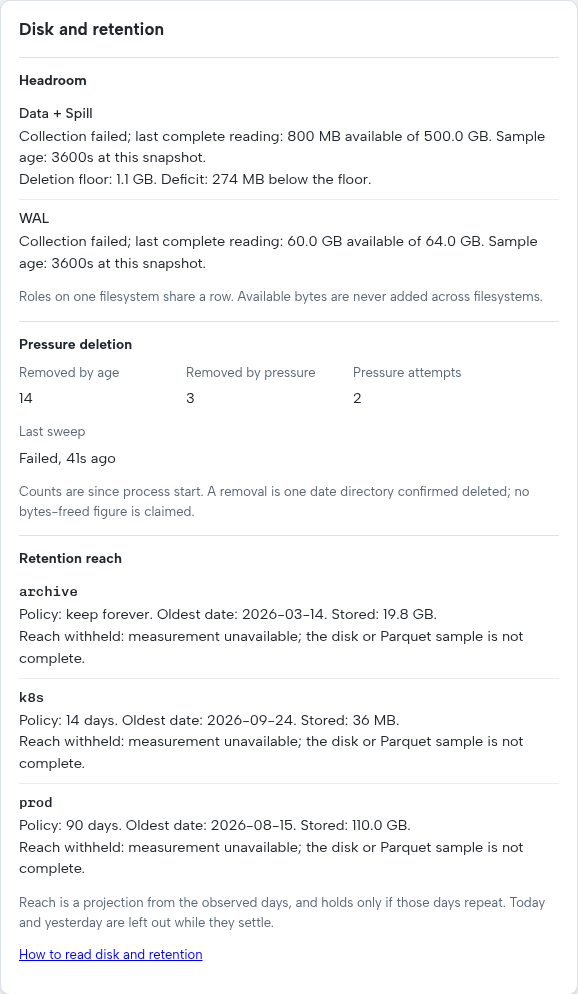
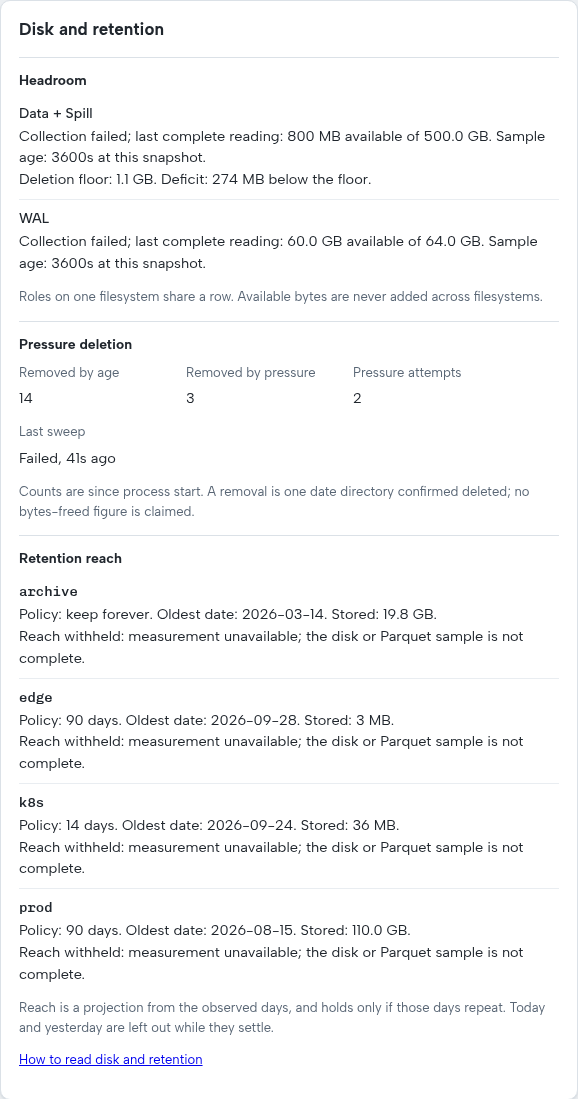
docs(evidence): recapture the failed-retained Disk and retention state (#202)
Recaptured from a clean tree at 2b1ea66a with the whole health-page spec
(61 cases). Only the failed-retained capture changed: it now shows the
edge env with its 2026-09-28 oldest date, withheld like the others. The
other seven came out byte-identical, and the bundle hash is unchanged.
The manifest names the new head and spec hash.

Changed region(s): [[0.0311, 0.0, 0.9343, 0.998], [0.5917, 0.3431, 0.6228, 0.3742]]

diff --git a/visual-evidence/issue-202/README.md b/visual-evidence/issue-202/README.md
@@ -20,7 +20,7 @@ fit inside the page's own scroll container.
 | --- | --- | --- |
 | [Complete, 1440](disk-retention-complete-1440.png) | `health-capacity-complete.json` | Two headroom rows (Data + WAL, Spill) with a floor and no deficit, and a completed sweep. Three envs are projected in whole days at both ends from one shared fraction per end: prod "about 38–52 of 90 days", staging "about 12–17 of 30 days", and lab "about 3–4 of 7 days" from its 6 observed days. Archive shows keep-forever growth, and k8s is withheld for history and named in the growth-excluded note |
 | [Complete, 390](disk-retention-complete-390.png) | `health-capacity-complete.json` | The same card at a phone width. The pressure facts wrap to two columns, every sentence stays inside the card with no horizontal scroll, and no date breaks at its hyphen |
-| [Failed, retained](disk-retention-failed-retained-1440.png) | `health-capacity-failed-retained.json` | The headroom attempt failed. Its rows read "Collection failed; last complete reading" with a 3600 s age and a 274 MB deficit, and the last sweep failed. All three reaches, the rate-less k8s included, are withheld as measurement unavailable with no digit, and no env is excluded from growth |
+| [Failed, retained](disk-retention-failed-retained-1440.png) | `health-capacity-failed-retained.json` | The headroom attempt failed. Its rows read "Collection failed; last complete reading" with a 3600 s age and a 274 MB deficit, and the last sweep failed. All four reaches are withheld as measurement unavailable with no digit, the rate-less k8s included, and so is edge, whose only partition is dated 2026-09-28, a day after the fixture's today. No env is excluded from growth |
 | [Repin suppressed](disk-retention-repin-suppressed-1440.png) | `health-capacity-repin-suppressed.json` | Both measurements are complete, but a repin is in flight. The last sweep reads "Suppressed", every reach is withheld because a repin holds two generations, with no digit, and no env is excluded from growth |
 | [Floor zero](disk-retention-floor-zero-1440.png) | `health-capacity-floor-zero.json` | A floor of 0 reads as "Pressure deletion off (floor 0)." with no pressure attempts. Prod and lab each read that the disk fills first at the largest observed day and keeps the full policy at the mean day. A fresh env is withheld for history and named in the growth-excluded note |
 | [Pressure](disk-retention-pressure-1440.png) | `health-capacity-pressure.json` | One row for all three roles with a 474 MB deficit, 12 pressure removals over 5 attempts, and a sweep that "Ran out of candidates below the floor". That sweep left each env only today's partition, so every reach is withheld for history and the finite envs lab and prod are excluded from growth |
